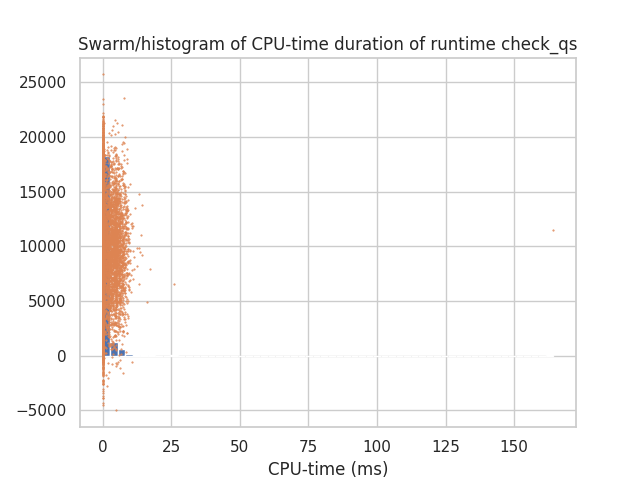
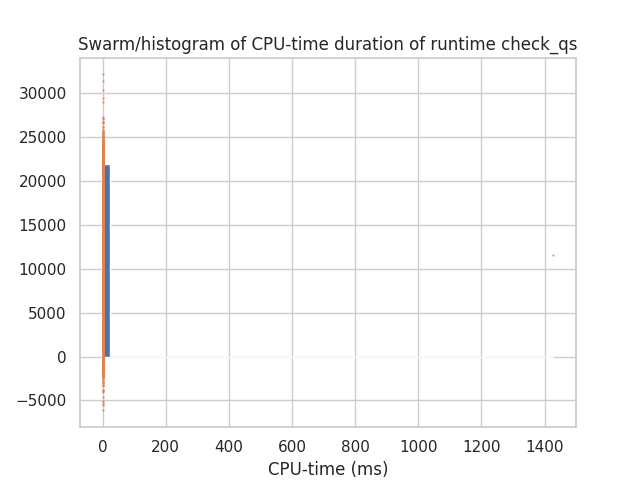
sponza results output

diff --git a/output/account_summaries.md b/output/account_summaries.md
@@ -1,17 +1,16 @@
-| account_name         |   cpu_duration_mean |   cpu_duration_sum |   cpu_duration_std |   wall_duration_mean |   wall_duration_sum |   wall_duration_std |   period_mean |   period_std |   count |
-|:---------------------|--------------------:|-------------------:|-------------------:|---------------------:|--------------------:|--------------------:|--------------:|-------------:|--------:|
-| offline_imu_cam iter |          0.805664   |          9746.92   |          2.40594   |           0.991222   |          11991.8    |           2.99755   |    4.99978    |      2.50978 |   12098 |
-| gldemo iter          |          0.499145   |          1750      |          0.111692  |          17.2155     |          60357.4    |           3.53113   |    0.0580225  |   1017.64    |    3506 |
-| timewarp_gl iter     |          1.57676    |          5703.13   |          0.577569  |          16.6609     |          60262.4    |           1.92631   |    0.00454248 |   1003.92    |    3617 |
-| debugview iter       |          1.76668    |          6375.96   |          0.322846  |          16.6771     |          60187.5    |           1.38048   |    0.00924866 |   1003.09    |    3609 |
-| audio_component iter |          3.66105    |         10521.9    |          0.296383  |           4.26242    |          12250.2    |           1.19074   |    0.0194202  |   1124.53    |    2874 |
-| offline_imu_cam skip |          0.110159   |          1332.71   |          0.105913  |           3.97874    |          48134.8    |           2.00255   |    4.99959    |      3.99783 |   12098 |
-| gldemo skip          |          0.00706144 |            24.7574 |          0.0116213 |           0.00867366 |             30.4098 |           0.0470048 |    0.0587251  |   1017.6     |    3506 |
-| timewarp_gl skip     |          0.00944152 |            34.15   |          0.0236557 |           0.0128615  |             46.5201 |           0.0743573 |    0.00454279 |   1003.92    |    3617 |
-| debugview skip       |          0.00739766 |            26.6981 |          0.0113218 |           0.0109044  |             39.3541 |           0.0676054 |    0.00924858 |   1003.1     |    3609 |
-| audio_component skip |          0.234131   |           672.891  |          0.0579825 |          16.6994     |          47994.1    |           1.56143   |    0.0175402  |   1124.81    |    2874 |
-| slam2 cb             |          2.69195    |         32486.5    |          8.52357   |           3.90016    |          47067.1    |          12.0635    |    5.00102    |     12.2286  |   12068 |
-| debugview cb         |          0.00426817 |            51.3674 |          0.0132646 |           0.00521918 |             62.8129 |           0.0233521 |    0.00377116 |    548.821   |   12035 |
-| runtime check_qs     |          0.634633   |         12877.3    |          2.07356   |           0.651958   |          13228.9    |           2.19373   |    2.98812    |     10.3897  |   20291 |
+| account_name           |   cpu_duration_mean |   cpu_duration_sum |   cpu_duration_std |   wall_duration_mean |   wall_duration_sum |   wall_duration_std |   period_mean |   period_std |            count |
+|:-----------------------|--------------------:|-------------------:|-------------------:|---------------------:|--------------------:|--------------------:|--------------:|-------------:|-----------------:|
+| hologram iter          |          7.88521    |          1293.17   |         0.653596   |         374.223      |         61372.6     |          57.5042    |  374.517      |   58.4933    |    164           |
+| zed_imu_thread iter    |          0.0644553  |          2060.38   |         0.503168   |           0.0678634  |          2169.32    |           0.532922  |    0.017687   |  350.836     |  31966           |
+| zed_camera_thread iter |         11.4784     |         28730.3    |         4.49093    |          15.1729     |         37977.8     |           5.11724   |    0.247191   | 1265.3       |   2503           |
+| timewarp_gl iter       |          4.51421    |          9308.31   |         2.72101    |          30.1199     |         62107.3     |          14.5512    |   -0.0584398  | 1372.79      |   2062           |
+| audio_component iter   |          3.95164    |         11953.7    |         0.306534   |           5.93801    |         17962.5     |           3.2092    |    0.0378736  | 1152.98      |   3025           |
+| hologram skip          |          0.00206006 |             2.1095 |         0.00909169 |           0.00218685 |             2.23933 |           0.0115285 |    0.00446676 |    0.0169095 |   1024           |
+| zed_imu_thread skip    |          0.00362181 |          4990.54   |         0.197344   |           0.00404243 |          5570.13    |           0.216232  |    0.00748326 |    1.0385    |      1.37792e+06 |
+| zed_camera_thread skip |          2.46151    |           147.691  |         0.369353   |          13.0657     |           783.944   |           9.19231   | -134.16       | 1185.16      |     60           |
+| timewarp_gl skip       |          0.00211144 |           434.877  |         0.188201   |           0.00253053 |           521.192   |           0.243264  |    0.303392   |    3.67896   | 205962           |
+| audio_component skip   |          0.226273   |           673.615  |         0.0812187  |          15.0177     |         44707.8     |           3.99067   |   -0.246036   | 1159.14      |   2977           |
+| slam2 cb               |          2.56319    |         36335.8    |        10.1916     |           4.44736    |         63045.8     |          17.1678    |    4.48653    |   17.2719    |  14176           |
+| runtime check_qs       |          0.0694954  |          1525.08   |         9.64104    |           0.0764387  |          1677.45    |           9.79486   |    2.9805     |   18.5015    |  21945           |
 
 All times are in milliseconds unless otherwise mentioned.

diff --git a/output/timewarp_fence.md b/output/timewarp_fence.md
@@ -1,5 +1,5 @@
 | account_name      |   cpu_duration_mean |   cpu_duration_sum |   cpu_duration_std |   wall_duration_mean |   wall_duration_sum |   wall_duration_std |   period_mean |   period_std |   count |
 |:------------------|--------------------:|-------------------:|-------------------:|---------------------:|--------------------:|--------------------:|--------------:|-------------:|--------:|
-| timewarp_gl fence |             0.45066 |            1630.04 |           0.354256 |             0.728751 |             2635.89 |            0.598139 |       16.6914 |      1.71543 |    3617 |
+| timewarp_gl fence |             2.45163 |            5072.42 |             1.8117 |               5.4733 |             11324.2 |             5.31705 |       30.1177 |      15.5913 |    2069 |
 
 All times are in milliseconds unless otherwise mentioned.
